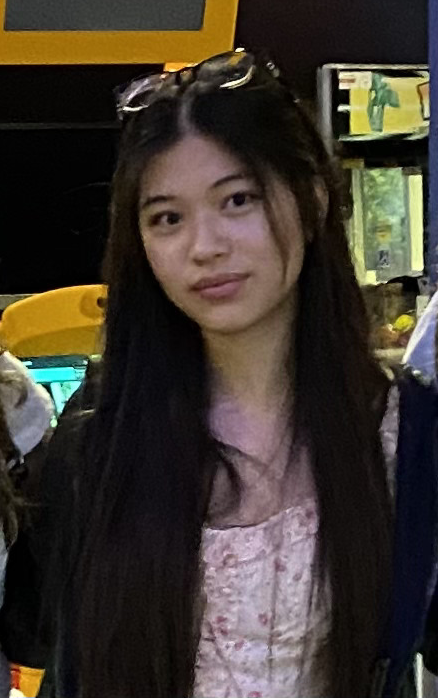
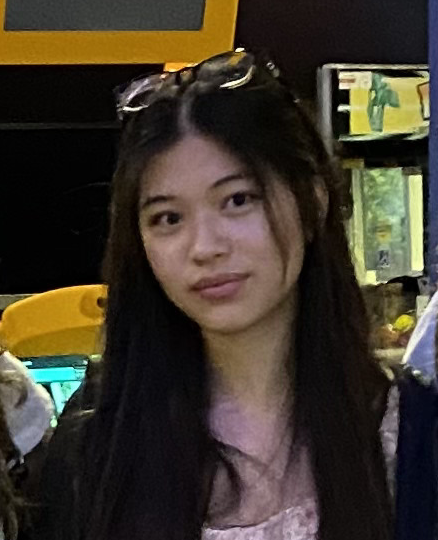
Fix misaligned member photos in teams page

diff --git a/src/pages/teampage/TeamPage.css b/src/pages/teampage/TeamPage.css
@@ -1,7 +1,13 @@
 #team-section {
   width: 100vw;
-  height: 3700px;
+  min-height: fit-content;
+  padding-bottom: 100px;
   background: linear-gradient(var(--bg-color) 24%, var(--team-gradient-blue), var(--bg-color), var(--team-gradient-blue)); /* Temporary Gradient, replace once sections are in place */
+}
+
+#team-section > img {
+  width: 100vw;
+  height: auto;
 }
 
 .date-section {
@@ -63,7 +69,8 @@
   height: 150px;
   object-fit: cover;
   border-radius: 50%;
-  margin-top: 23px;
+  margin-top: 30px;
+  margin-bottom: 20px;
 }
 
 .member-name {
